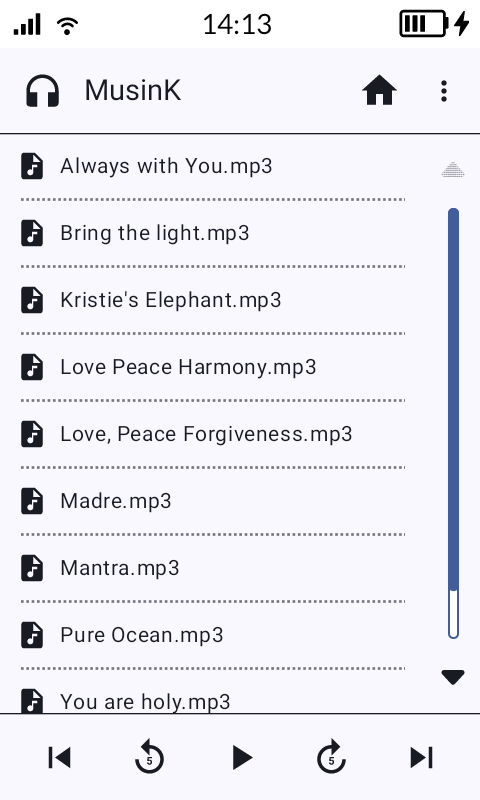
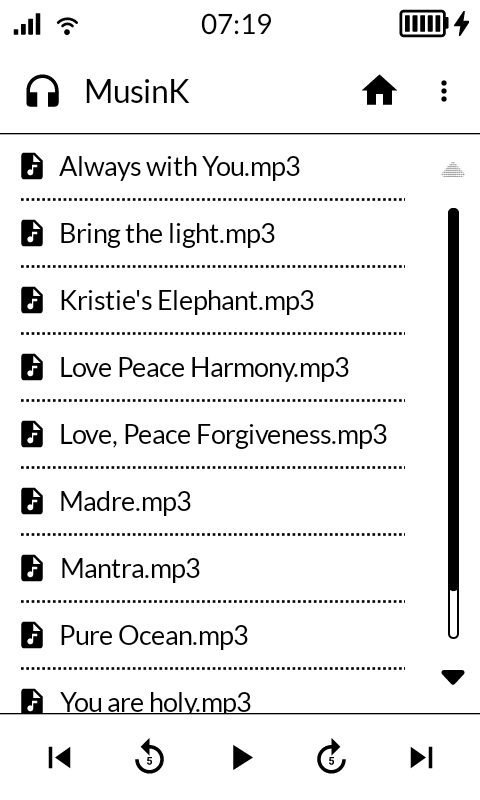
colors and font improved by applying ThemeMMD

diff --git a/app/src/main/java/cyberdynesoftware/musink/ui/theme/Theme.kt b/app/src/main/java/cyberdynesoftware/musink/ui/theme/Theme.kt
@@ -1,58 +1,13 @@
 package cyberdynesoftware.musink.ui.theme
 
-import android.app.Activity
-import android.os.Build
-import androidx.compose.foundation.isSystemInDarkTheme
-import androidx.compose.material3.MaterialTheme
-import androidx.compose.material3.darkColorScheme
-import androidx.compose.material3.dynamicDarkColorScheme
-import androidx.compose.material3.dynamicLightColorScheme
-import androidx.compose.material3.lightColorScheme
 import androidx.compose.runtime.Composable
-import androidx.compose.ui.platform.LocalContext
-
-private val DarkColorScheme = darkColorScheme(
-    primary = Purple80,
-    secondary = PurpleGrey80,
-    tertiary = Pink80
-)
-
-private val LightColorScheme = lightColorScheme(
-    primary = Purple40,
-    secondary = PurpleGrey40,
-    tertiary = Pink40
-
-    /* Other default colors to override
-    background = Color(0xFFFFFBFE),
-    surface = Color(0xFFFFFBFE),
-    onPrimary = Color.White,
-    onSecondary = Color.White,
-    onTertiary = Color.White,
-    onBackground = Color(0xFF1C1B1F),
-    onSurface = Color(0xFF1C1B1F),
-    */
-)
+import com.mudita.mmd.ThemeMMD
 
 @Composable
 fun MusinkTheme(
-    darkTheme: Boolean = isSystemInDarkTheme(),
-    // Dynamic color is available on Android 12+
-    dynamicColor: Boolean = true,
     content: @Composable () -> Unit
 ) {
-    val colorScheme = when {
-        dynamicColor && Build.VERSION.SDK_INT >= Build.VERSION_CODES.S -> {
-            val context = LocalContext.current
-            if (darkTheme) dynamicDarkColorScheme(context) else dynamicLightColorScheme(context)
-        }
-
-        darkTheme -> DarkColorScheme
-        else -> LightColorScheme
-    }
-
-    MaterialTheme(
-        colorScheme = colorScheme,
-        typography = Typography,
+    ThemeMMD(
         content = content
     )
 }